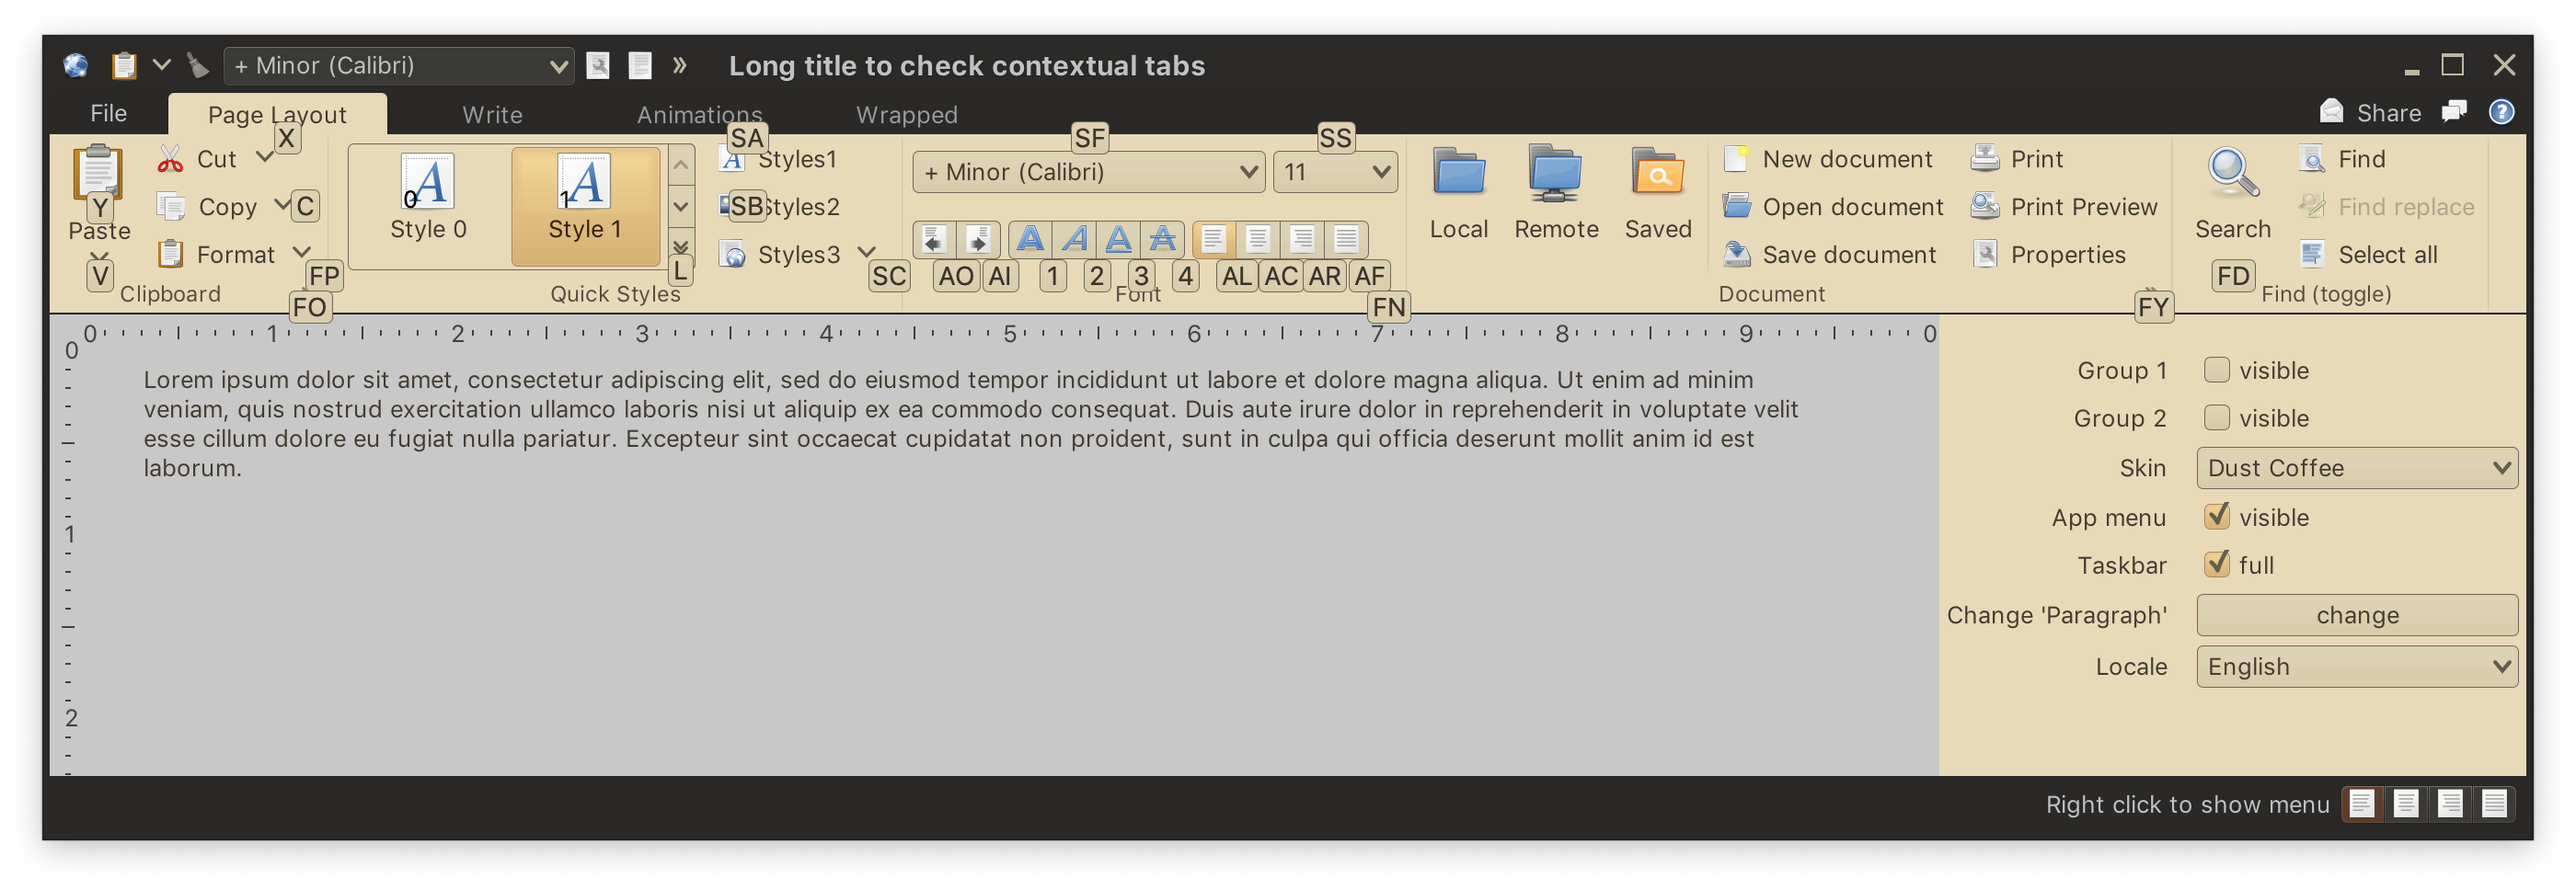
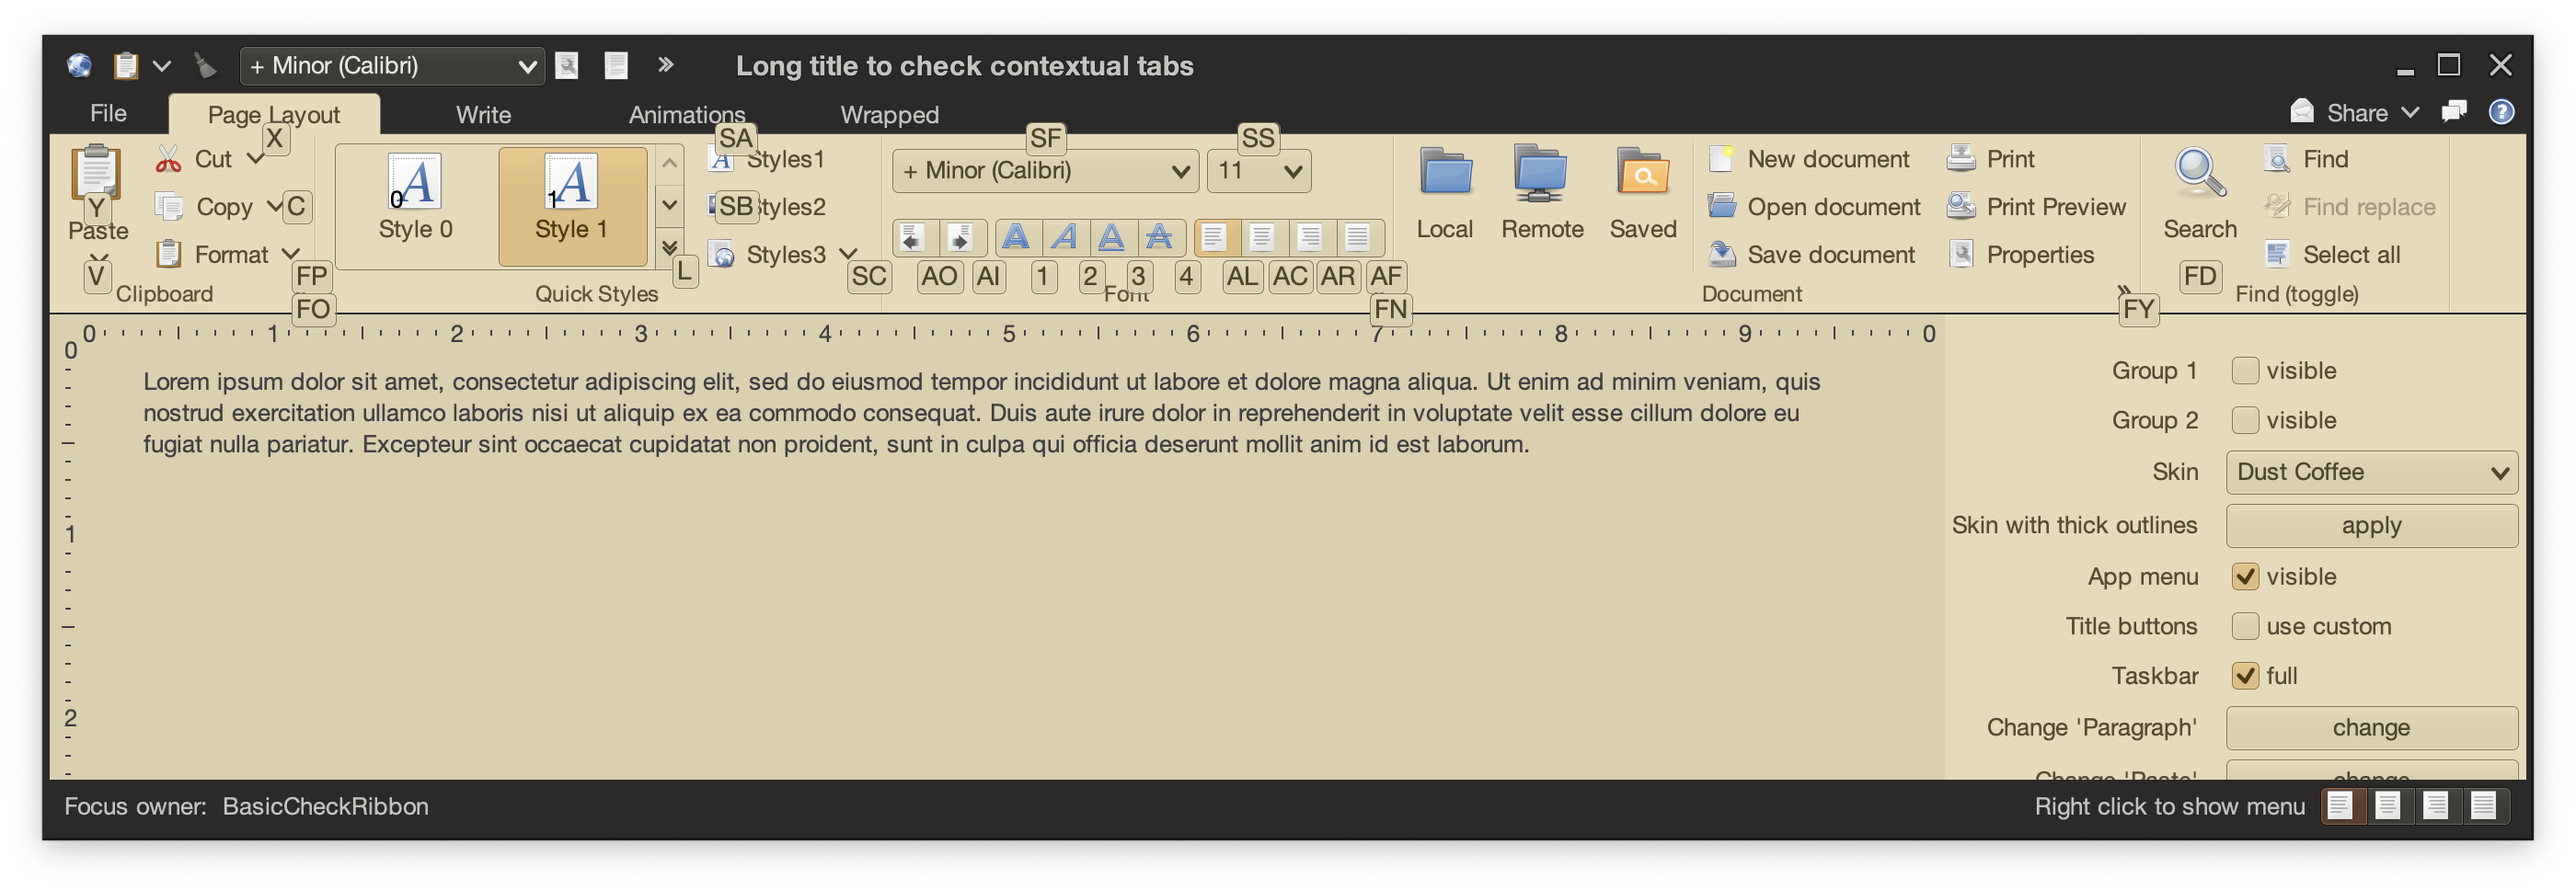
Update ribbon doc images

diff --git a/docs/component/RibbonBandGalleries.md b/docs/component/RibbonBandGalleries.md
@@ -162,4 +162,4 @@ With our `RibbonGalleryContentModel` as the content model and `RibbonGalleryPres
 
 ### Next
 
-Continue to the [keytips](RibbonKeyTips.md).
+Continue to the [keytips](RibbonKeytips.md).
